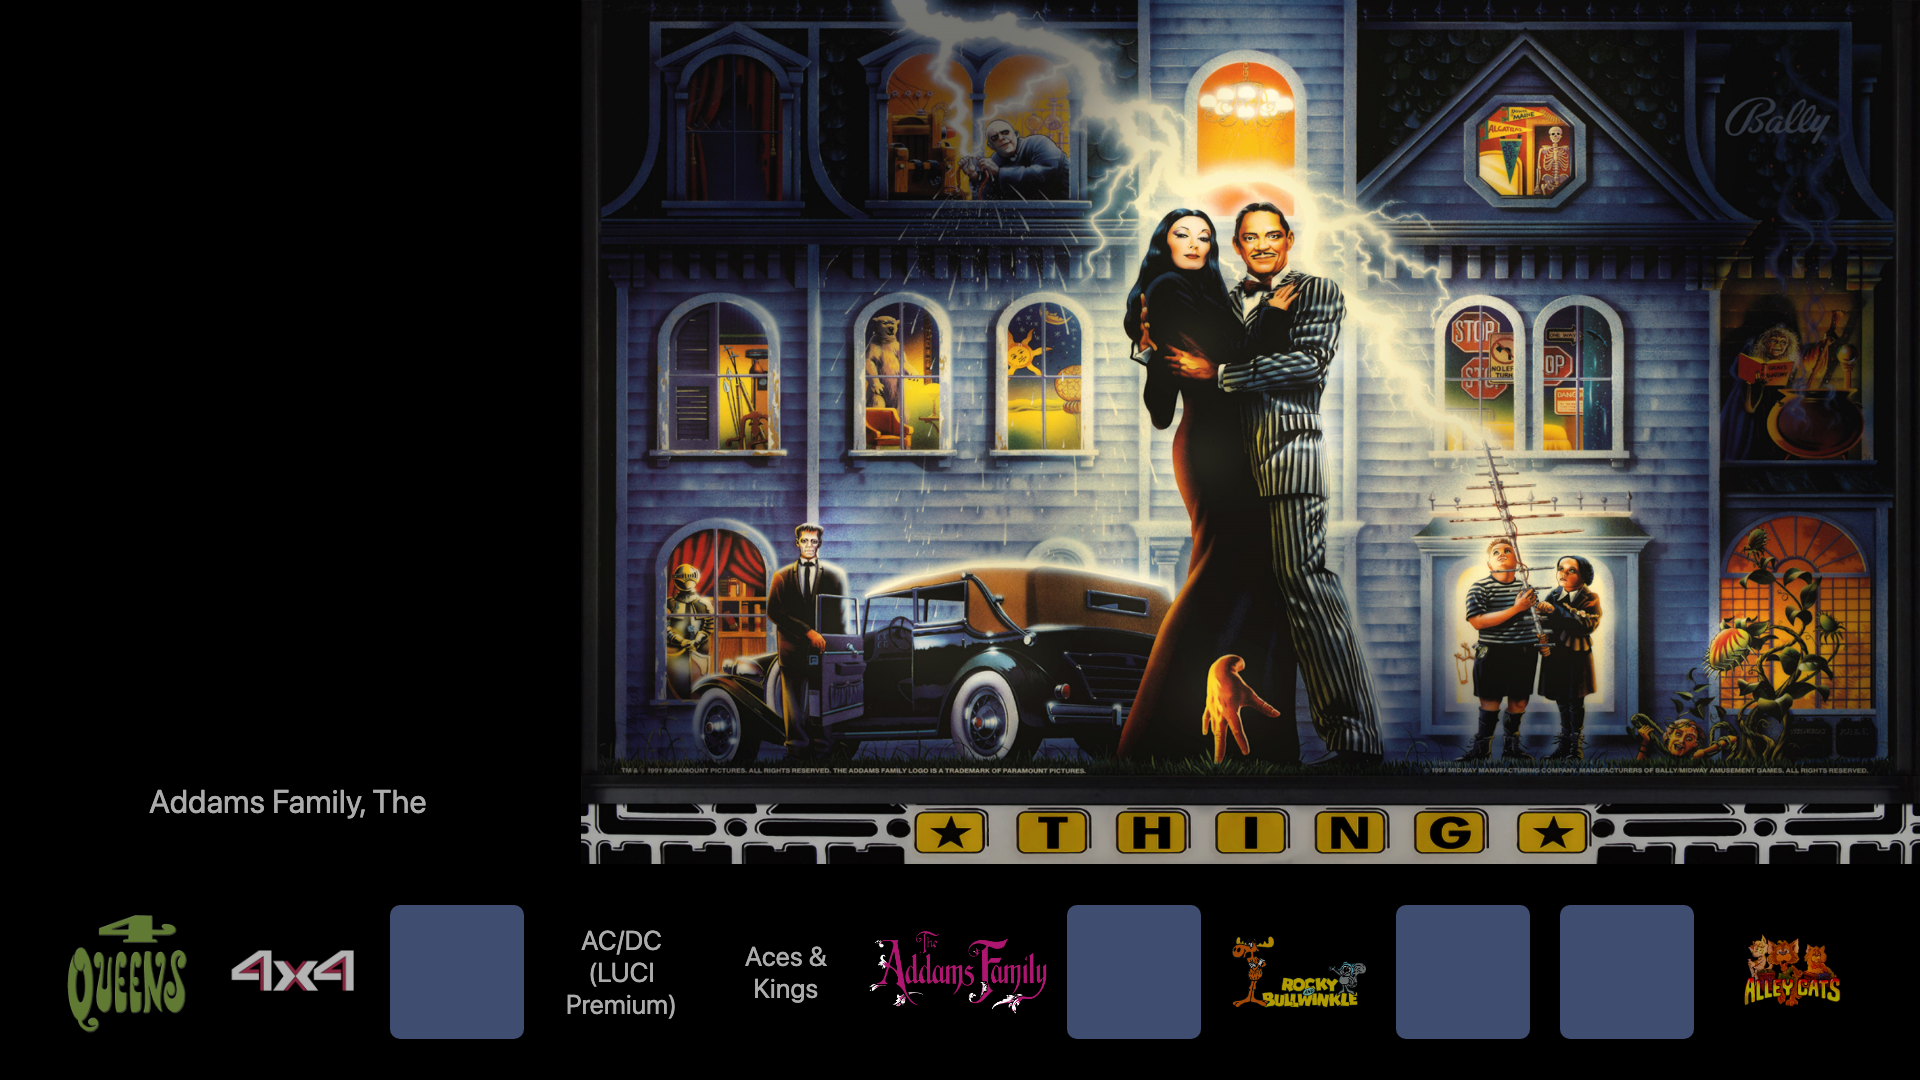
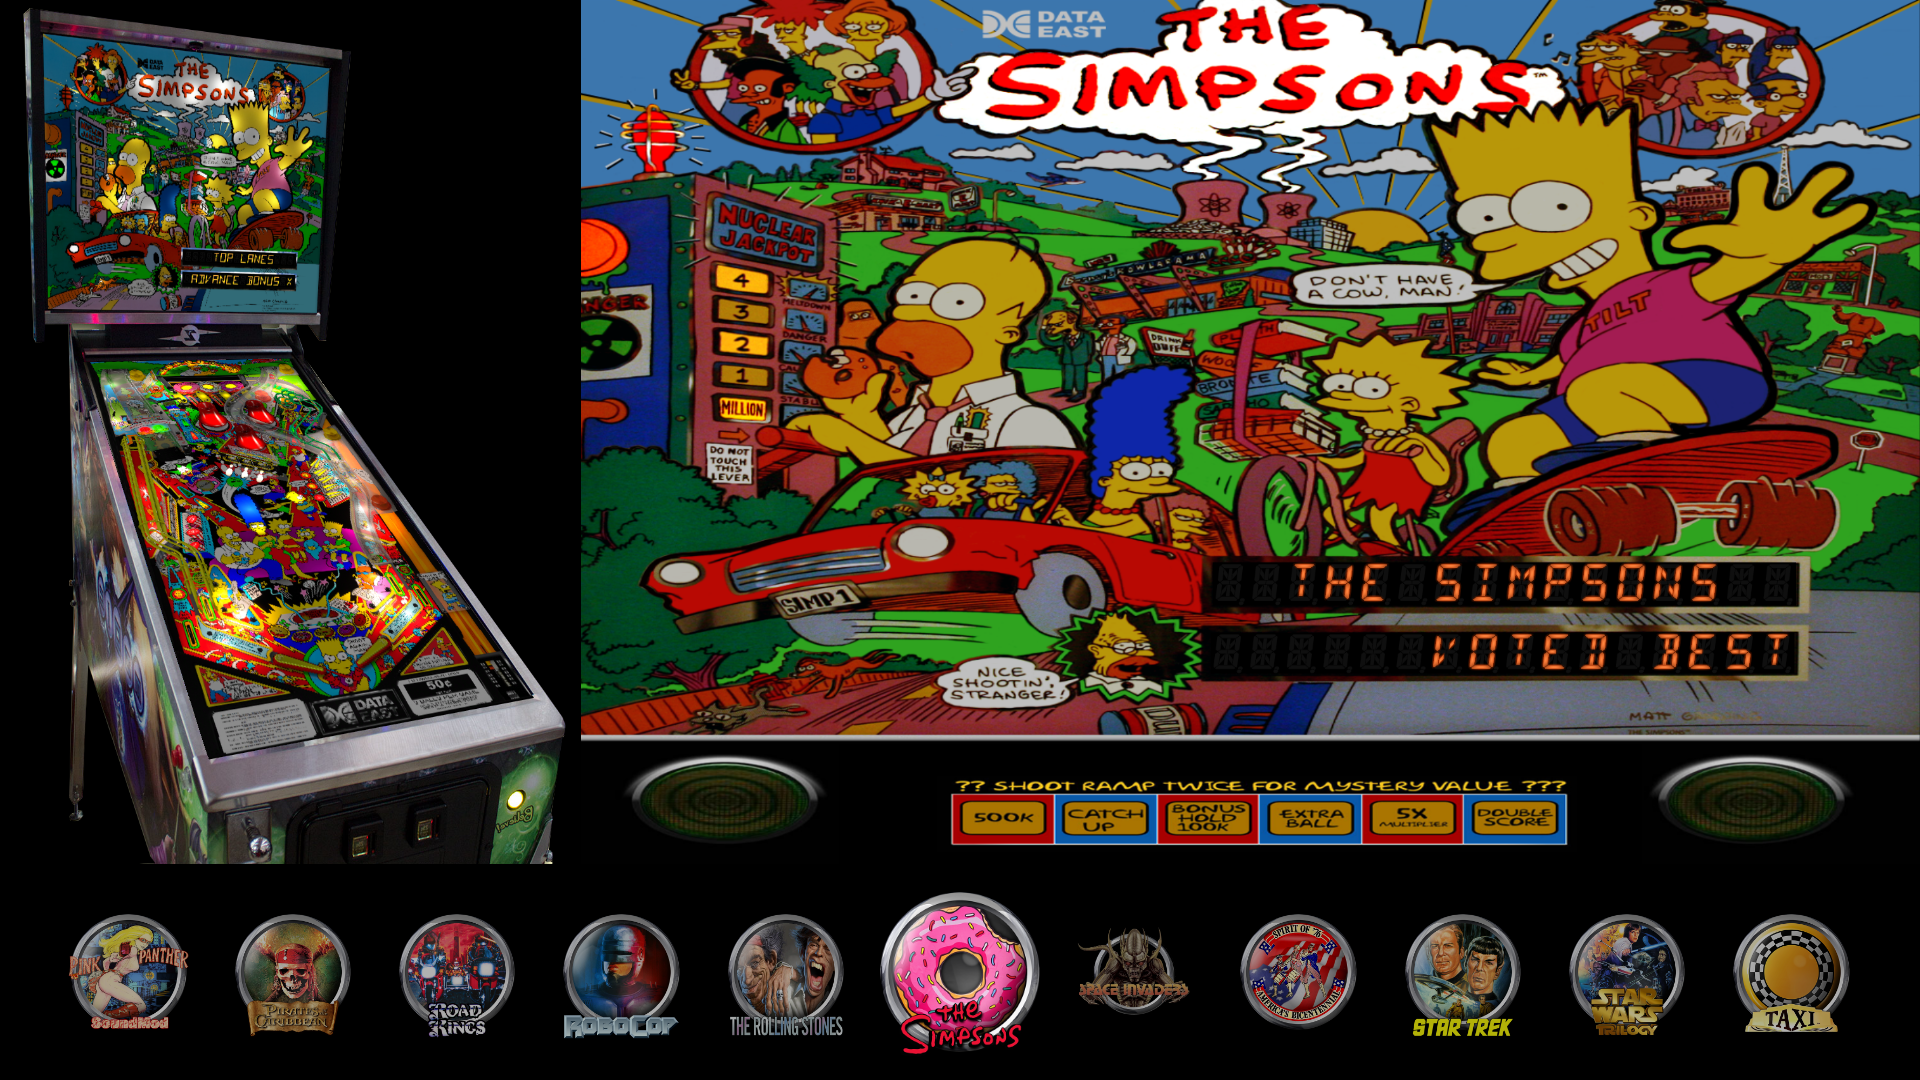
New README, 3.0 release notes and preview
- change_log rewritten as the 3.0 release notes
- README rewritten for people installing the theme, with the settings table
- preview.png reshot from the showcase library

diff --git a/README.md b/README.md
@@ -1,95 +1,19 @@
 # Carousel2
 
-A single screen desktop theme. The top four fifths of the screen show the table's cabinet
-picture on the left and a large picture of the table beside it. A row of wheels runs along the
-bottom with the selected one in the middle, larger and fully lit. A table with no picture of
-the kind being shown is named where the picture would be, and a table with no wheel is named
-in the row.
+A single screen theme for a desktop.  The top four fifths of the screen show the table's cabinet picture on the left and a large picture of the table beside it.  A row of wheels runs along the bottom with the selected one in the middle, larger and fully lit.
 
-![Carousel2](preview.png)
+![Carousel2 on a desktop](preview.png)
 
-Requires VPinFE 3.0 or later (`min_vpinfe` in `manifest.json`). This is the 3.0 rebuild of
-Carousel2, so its version is 2.0.0.
+A table with no picture of the kind being shown is named where the picture would be, and a table with no wheel is named in the row.
 
-## What is here
+## Install
 
-```
-manifest.json         name, version, author, min_vpinfe and the windows the theme draws
-options.json          the options a person can change, with their defaults
-index_playfield.html  the playfield page
-style.css             the look
-theme.js              the behavior
-locales/en.json       the theme's own words; add <language>.json to translate them
-preview.png           shown in the theme list
-```
+Open Themes in the Console, find Carousel2, and press Install.  Then press Make Active and restart VPinFE.  It needs VPinFE 3.0 or later.
 
-## The two JSON files
+## Settings
 
-JSON cannot carry comments, so what each field does is here.
+These are on the Themes page in the Console, under Carousel2's settings.
 
-`manifest.json`
-
-| Field | What it does |
+| Setting | What it does |
 | --- | --- |
-| `name`, `version`, `author`, `description` | Shown in the theme list. `version` is the theme's own release number |
-| `preview_image` | The screenshot shown in the theme list |
-| `type` | `desktop`: the theme is made for a single desktop screen |
-| `min_vpinfe` | The oldest VPinFE that can run the theme |
-| `windows` | The pages the theme draws. Carousel2 draws `playfield` only, so core's backglass and score view pages are used |
-| `change_log` | A string, shown as "What's new" to someone installing or updating the theme |
-
-`options.json` declares what a person can change under the theme's settings.
-
-| Key | Type | Default | What it does |
-| --- | --- | --- | --- |
-| `maingfx` | select | `bg` | The large picture of the selected table. `bg` is the backglass, `fss` the full single screen, `table` the playfield, `wheel` the wheel, `cab` the cabinet and `dmd` the score view |
-
-The key and its values are the ones Carousel2 had in 2.x, so a person's choice carries over.
-
-## The four parts of theme.js
-
-`theme.js` has four parts, in this order, each commented:
-
-1. **Options** - read what `options.json` declared from `vpin.themeConfig`. `maingfx` is
-   turned into the media kind core knows it by.
-2. **The list** - the row of wheels. As many are drawn as fit across the screen, always an
-   odd number so the selection stays in the middle, and they are drawn again when the
-   window changes size. A table with no wheel picture is named instead.
-3. **The selection** - draw the cabinet picture and the large picture. Both are still
-   pictures, drawn by the theme: core's own media element shows a table's video whenever it
-   has one, and this theme shows pictures. A table with no picture of the kind wanted is
-   named in its place. In the collection picker the wheel row holds the collections and the
-   large pane shows the selected collection's picture, or its name.
-4. **Messages** - hand every message to core, then redraw.
-
-## The page
-
-| Element | What it holds |
-| --- | --- |
-| `#cab` | The cabinet picture, 30% of the width |
-| `#main` | The large picture of the selected table, the rest of the width |
-| `#wheels` | The row of wheels |
-| `#empty` | "No tables found", shown when the list is empty |
-
-The page's outermost element carries `vpinfe-upright`, so core can turn the whole page for a
-cabinet screen mounted on its side. The stage is styled by class, not by id, so the rules in
-`vpinfe-style.css` that size it for a turned screen still win. The pictures are stretched to
-their boxes, not cropped, as they always were in Carousel2.
-
-## What core does, so this theme does not
-
-| Core handles | The theme's part |
-| --- | --- |
-| Keys, buttons and the remote: stepping, paging, the menu and the collection picker | Launch on `select` |
-| Moving the selection and wrapping around the list | Draw the selected table (`activeList().current`) and the wheels around it (`indexAfter`) |
-| Serving the table's media | Pick the kind for each pane, ask for it by name, and name the table when it has none. `table` falls back to the full single screen picture here, because `getImageURL` has no fallback |
-| Audio for the selected table | Nothing |
-| Preloading the neighbors | Nothing |
-| Turning the page for a sideways cabinet screen | `vpinfe-upright` on the stage |
-| The loading indicator while a table starts | Restyle `.vpinfe-launch-spinner` |
-| Attract mode | Nothing |
-| The backglass and score view pages | Nothing: Carousel2 ships none, so core's are used |
-
-## Opt-outs
-
-Carousel2 uses none. There is no `config.json`.
+| Main Image | The large picture of the selected table: the backglass, full single screen, playfield, wheel, cabinet or score view.  The backglass by default.  If you set this in VPinFE 2.x, your choice carries over. |
